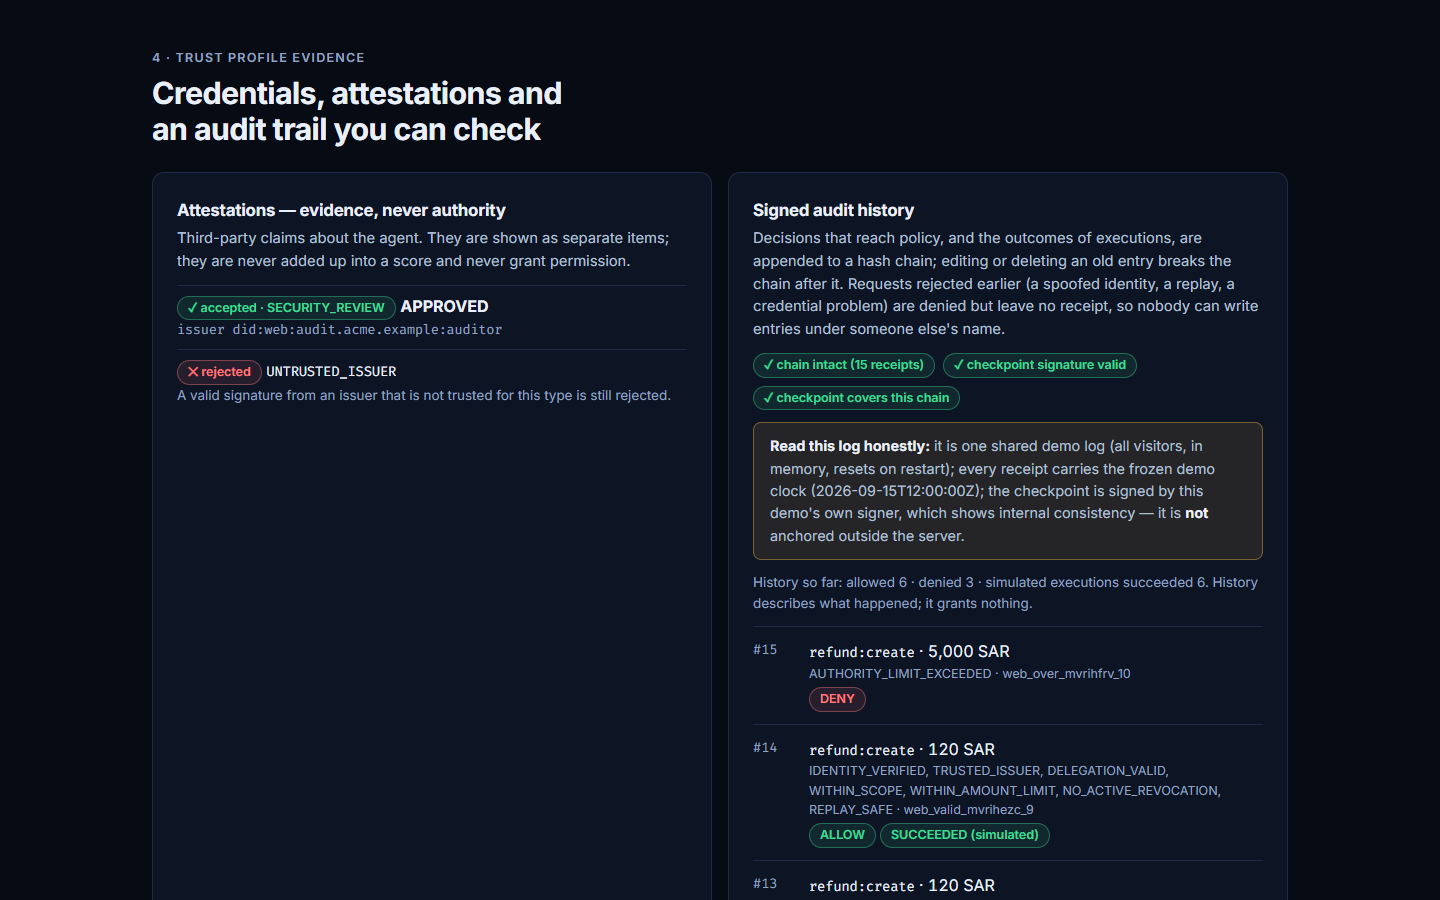
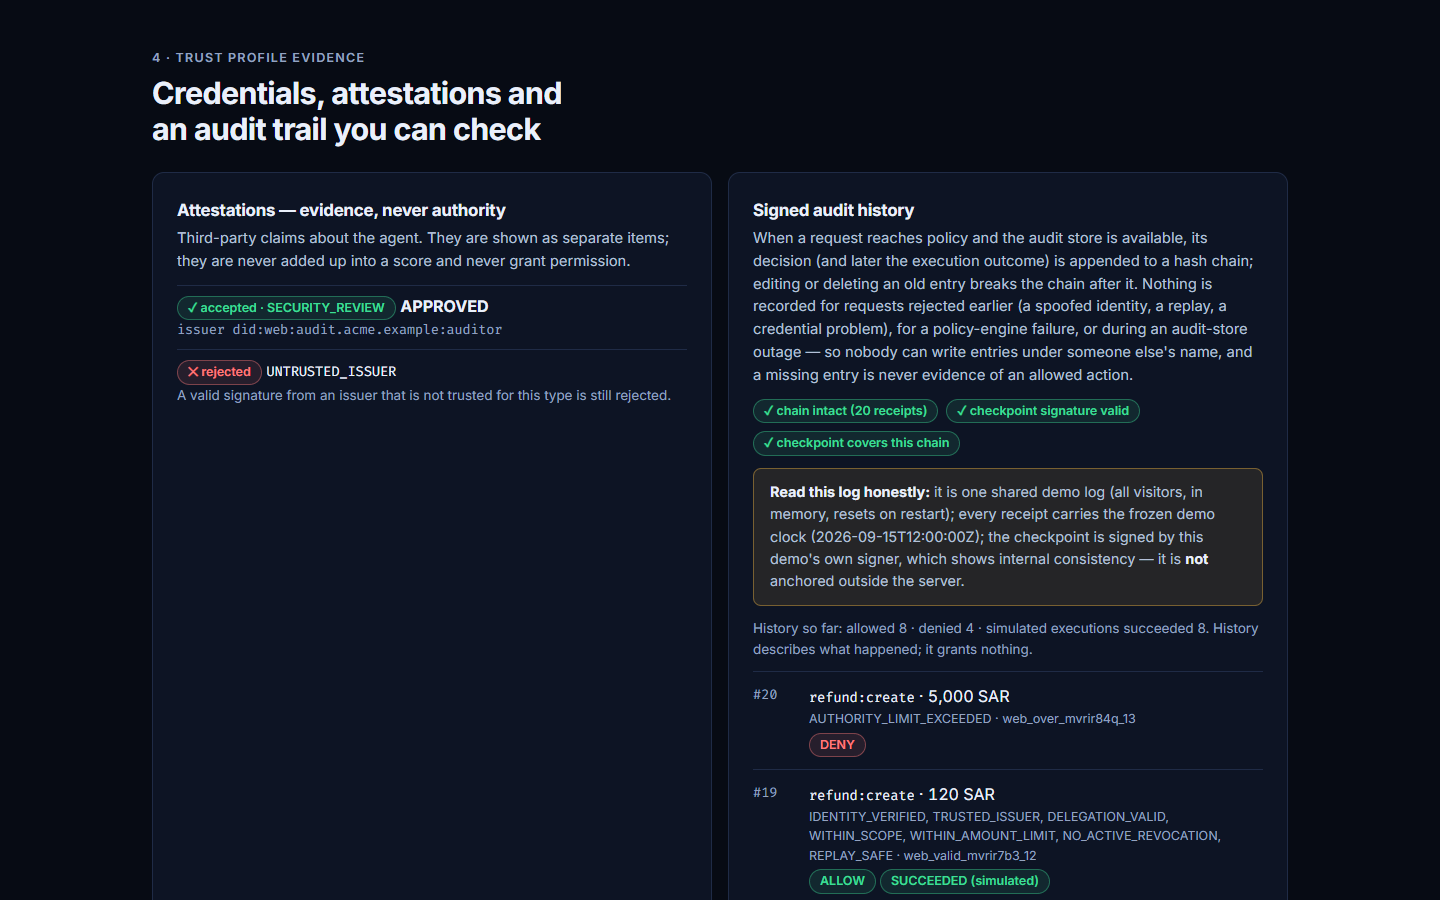
fix(web): partial-retry for "Run both", evidence generation guard, precise receipt copy
- "Run both" retries only the failed leg and refreshes evidence after partial
  success (the successful 120 SAR leg is never repeated).
- The bootstrap refresh obeys the same generation guard as post-run refreshes.
- Evidence disclosure: "none recorded" vs "nothing executed", and replay cards
  attribute their receipts to the first send.
- Audit-log copy names what is NOT recorded (early denials, policy-engine
  failure, audit outage).
- Docs separate the security release verification (92ff923 / e4ba7eb) from the
  UI branch verification (e45a7f9) and drop the video from the blockers.
- ui:check now 45 checks; screenshots regenerated.

Changed region(s): [[0.5312, 0.2489, 0.875, 0.9956]]

diff --git a/apps/web/src/app/page.tsx b/apps/web/src/app/page.tsx
@@ -51,6 +51,7 @@ export default function Page() {
   const [amount, setAmount] = useState('250');
   const [amountError, setAmountError] = useState<string | null>(null);
   const [bootError, setBootError] = useState<string | null>(null);
+  const evSeq = useRef(0);
   // One request at a time. Buttons use aria-disabled (not `disabled`) so keyboard focus is never lost.
   // Each run owns a token; only the owner can release the lock, so a late `finally`
   // from an earlier run can never free a newer run's lock.
@@ -68,11 +69,11 @@ export default function Page() {
     activeRef.current = null;
     setRunning(null);
   }, []);
-  const lastReq = useRef<{ id: string; amount?: number } | null>(null);
-  const evSeq = useRef(0);
+  const lastReq = useRef<{ id: string; amount?: number; step?: 1 | 2 } | null>(null);
   const [evidenceStale, setEvidenceStale] = useState(false);
 
   const refresh = useCallback(async (attempt = 0): Promise<void> => {
+    const generation = evSeq.current; // a newer evidence refresh (after a run) must never be overwritten by this one
     try {
       const [pr, ar, sr] = await Promise.all([
         fetch('/api/agents/support/profile'),
@@ -80,8 +81,11 @@ export default function Page() {
         fetch('/api/demo/status'),
       ]);
       if (!pr.ok || !ar.ok) throw new Error('backend initializing');
-      setProfile(await pr.json());
-      setAudit(await ar.json());
+      const [prJson, arJson] = await Promise.all([pr.json(), ar.json()]);
+      if (generation === evSeq.current) {
+        setProfile(prJson);
+        setAudit(arJson);
+      }
       if (sr.ok) {
         const s = (await sr.json()) as DemoStatus;
         if (s.dids !== undefined) setStatus(s);
@@ -166,24 +170,31 @@ export default function Page() {
     [begin, release, evaluate, reloadEvidence, scrollToVerdict],
   );
 
-  const runBoth = useCallback(async () => {
-    const token = begin('both');
-    if (token === null) return;
-    lastReq.current = { id: 'both' };
-    setErrorPrimary(null);
-    try {
-      await evaluate('valid-120');
-      const second = await evaluate('over-5000');
-      if (second !== undefined) setLast(second);
-      release(token);
-      scrollToVerdict();
-      await reloadEvidence();
-    } catch (e) {
-      setErrorPrimary(e instanceof Error ? e.message : String(e));
-    } finally {
-      release(token);
-    }
-  }, [begin, release, evaluate, reloadEvidence, scrollToVerdict]);
+  const runBoth = useCallback(
+    async (startAt: 1 | 2 = 1) => {
+      const token = begin('both');
+      if (token === null) return;
+      lastReq.current = { id: 'both', step: startAt };
+      setErrorPrimary(null);
+      try {
+        if (startAt === 1) {
+          await evaluate('valid-120');
+          lastReq.current = { id: 'both', step: 2 }; // the 120 SAR leg succeeded: a retry must not repeat it
+        }
+        const second = await evaluate('over-5000');
+        if (second !== undefined) setLast(second);
+        release(token);
+        scrollToVerdict();
+        await reloadEvidence();
+      } catch (e) {
+        setErrorPrimary(e instanceof Error ? e.message : String(e));
+        if (lastReq.current?.step === 2) void reloadEvidence(); // partial success: the first leg is already in the log
+      } finally {
+        release(token);
+      }
+    },
+    [begin, release, evaluate, reloadEvidence, scrollToVerdict],
+  );
 
   const runCustom = useCallback(() => {
     const parsed = parseAmount(amount);
@@ -219,7 +230,7 @@ export default function Page() {
     const req = lastReq.current;
     setErrorPrimary(null);
     if (req === null) return;
-    if (req.id === 'both') void runBoth();
+    if (req.id === 'both') void runBoth(req.step ?? 1);
     else void runPrimary(req.id, req.amount);
   }, [runBoth, runPrimary]);
 

diff --git a/apps/web/src/components/sections.tsx b/apps/web/src/components/sections.tsx
@@ -318,7 +318,10 @@ export function EvidenceDetails({ record }: { record: RunRecord }) {
             <tr><th scope="row">Outcome</th><td className="mono">{d.outcome}</td></tr>
             <tr><th scope="row">Reason codes</th><td className="mono wrap-any">{d.reasonCodes.join(', ') || '—'}</td></tr>
             <tr><th scope="row">Decision receipt</th><td className="mono wrap-any">{d.decisionReceiptId ?? 'none written'}</td></tr>
-            <tr><th scope="row">Outcome receipt</th><td className="mono wrap-any">{d.executionReceiptId ?? 'none (nothing executed)'}</td></tr>
+            <tr><th scope="row">Outcome receipt</th><td className="mono wrap-any">{d.executionReceiptId ?? (d.stages.execution === 'NOT_RUN' ? 'none (nothing executed)' : 'none recorded')}</td></tr>
+            {record.evaluation.firstResult !== undefined && (
+              <tr><th scope="row">Two sends</th><td>The receipts listed here belong to the first send ({record.evaluation.firstResult.outcome}). The identical re-send ({d.outcome}) was refused before any receipt was written.</td></tr>
+            )}
             {record.evaluation.runReceipts.map((r) => (
               <tr key={r.sequence}><th scope="row">Receipt #{r.sequence} hash</th><td className="mono wrap-any">sha256:{r.eventHash}</td></tr>
             ))}
@@ -585,7 +588,7 @@ export function EvidenceSection({ profile, audit, status }: { profile: ProfileDt
 
       <section className="card" aria-labelledby="audit-title">
         <h3 className="card-title" id="audit-title">Signed audit history</h3>
-        <p className="card-sub">Decisions that reach policy, and the outcomes of executions, are appended to a hash chain; editing or deleting an old entry breaks the chain after it. Requests rejected earlier (a spoofed identity, a replay, a credential problem) are denied but leave no receipt, so nobody can write entries under someone else&apos;s name.</p>
+        <p className="card-sub">When a request reaches policy and the audit store is available, its decision (and later the execution outcome) is appended to a hash chain; editing or deleting an old entry breaks the chain after it. Nothing is recorded for requests rejected earlier (a spoofed identity, a replay, a credential problem), for a policy-engine failure, or during an audit-store outage — so nobody can write entries under someone else&apos;s name, and a missing entry is never evidence of an allowed action.</p>
         {audit === null ? (
           <div className="skeleton" style={{ marginTop: 'var(--s4)' }} aria-busy="true" />
         ) : audit.error !== undefined ? (

diff --git a/docs/submission/judge-checklist.md b/docs/submission/judge-checklist.md
@@ -34,7 +34,7 @@ Nothing vague; every row is clickable or runnable.
 |---|---|
 | **Conceptual clarity (25)** | README first screen (120-vs-5000 table + the single sentence) · canonical demo run in the live UI · `docs/trust-model.md` |
 | **Technical depth (25)** | 504 tests in the default run (435 package + 69 apps/web; OPA on PATH needed for all 504) + 5 Redis integration tests · SSRF-pinned did:web transport · PoP→replay→VC→status→attenuation→Wasm→receipts pipeline · ADRs |
-| **Demo quality (20)** | Judge-first dashboard: hero, principals + signed grant, the 120-vs-5,000 SAR decision with a large verdict, a real-order pipeline, failure cards, lifecycle, evidence; 10 screenshots regenerated from the current UI (desktop + mobile); responsive at 1920/1440/768/390 px with 43 automated browser checks; optional video script (once recorded on the public URL) |
+| **Demo quality (20)** | Judge-first dashboard: hero, principals + signed grant, the 120-vs-5,000 SAR decision with a large verdict, a real-order pipeline, failure cards, lifecycle, evidence; 10 screenshots regenerated from the current UI (desktop + mobile); responsive at 1920/1440/768/390 px with 45 automated browser checks; optional video script (once recorded on the public URL) |
 | **Failure thinking (15)** | 60/60 attack suite with invariant checks · fail-closed at every enforcement boundary (incl. startup config: Redis/did:web misconfig refuses boot; a policy-engine crash denies without a receipt) · documented bugs-caught table |
 | **Future thesis (15)** | `two-year-thesis.md` (portable evidence, provenance-as-contract, agent refusal, standards over scores) + what-the-fabric-doesn't-do honesty |
 
@@ -42,10 +42,12 @@ Nothing vague; every row is clickable or runnable.
 
 | Item | Status |
 |---|---|
-| Typecheck, 504 tests (incl. the 69 apps/web tests), 5 Redis, 13 OPA, 60/60 attacks, build, 43/43 browser checks | PASS on the release branch (see `final-submission.md`) |
+| Security release (`92ff923` → `main` `e4ba7eb`): typecheck, 483 tests, 5 Redis, 13 OPA, 60/60 attacks, build, Docker build | PASS; CI green on the PR head and on the merge commit |
+| Judge-UI branch (code at `e45a7f9`): typecheck, 504 tests (435 package + 69 apps/web), 5 Redis, 13 OPA, 60/60 attacks, build, 45/45 browser checks | PASS locally; CI not yet run (branch not pushed, not merged) |
 | Original malformed-input exploit | Reproduced on the pre-fix code; fixed and covered by regression tests |
-| `smoke:live` 45/45 | PASS against the current public service (pre-audit build 4c25b4b); NOT RUN on a deployment of the release commit |
-| Public HTTPS URL on the release commit, 90-second walkthrough | BLOCKER — URL exists on the old build; walkthrough not recorded |
+| `smoke:live` 45/45 | PASS on 2026-10-28 against the OLD public build (4c25b4b); NOT RUN on a deployment of the merged code |
+| Public HTTPS URL (REQUIRED) | **BLOCKER** — the service is suspended; redeploy the merged code and re-verify |
+| 90-second walkthrough | OPTIONAL but recommended — not recorded; not a submission blocker |
 | Challenge requirements and judging weights | Provided by the project owner (verified by them on the challenge page); not independently re-fetched by the agents |
 | Video take/edit rules, exact form fields | UNVERIFIED |
 | Screenshots | Regenerated from the current UI with real clicks (`pnpm shots:live`); they must be regenerated again if the UI changes |

diff --git a/docs/submission/final-submission.md b/docs/submission/final-submission.md
@@ -103,31 +103,31 @@ https://abuzaro21.github.io/agents/refund/did.json
 Each identity has its own P-256 key; private keys live only as deployment
 secrets (never committed, never in the image, never in the browser).
 
-## Verified metrics (post-audit release branch)
+## Verified metrics (each line names the code it was run on)
 
-Executed on a clean worktree of the release branch (code baseline `043257b`),
-Windows 11, Node 24, pinned OPA 1.20.2, Redis 7 for integration. Counts below
-are from those runs; historical counts from the original freeze are not reused.
+Windows 11, Node 24, pinned OPA 1.20.2, Redis 7 for integration. Historical counts from the original freeze are not reused.
 
 ```text
-TypeScript typecheck       0 errors
-default `pnpm test`        504 passed (435 package + 69 apps/web; 494 pass + 10 skip without OPA)
-frontend/API subset        69 passed (`pnpm test:frontend`, already inside the 504)
-browser automation         43/43 checks (`pnpm ui:check`: layout at 4 widths, keyboard, states)
-redis integration          5/5 (Redis 7)
-OPA native tests           13/13
-adversarial suite          60/60 (52 attacks + 8 failure demos)
-production web build       passes
-CI                         green on the original freeze; re-run on the release branch is pending
-live-mode smoke            45/45 against the CURRENT public service, which runs the pre-audit build 4c25b4b;
-                           NOT yet run against a deployment of the release commit
-docker image / compose     see docs/deployment.md "Verification record"
+Security release (92ff923, merged to main as e4ba7eb — tree-identical):
+  typecheck 0 errors · 483 tests in the default run (435 package + 48 apps/web) · Redis integration 5/5
+  OPA native 13/13 · adversarial suite 60/60 (52 attacks + 8 failure demos) · production build · Docker build
+  CI: green on the PR head and on the merge commit e4ba7eb
+  (details: docs/deployment.md "Verification record")
+
+Judge-UI branch feat/agent-trust-judge-ui-20261028 (code verified at e45a7f9; later commits are documentation only):
+  typecheck 0 errors · 504 tests in the default run (435 package + 69 apps/web; 494 pass + 10 skip without OPA)
+  Redis integration 5/5 · OPA native 13/13 · adversarial suite 60/60 · production build
+  browser automation 45/45 checks (`pnpm ui:check` against a local instance: layout at 4 widths, keyboard, states)
+  CI: NOT YET RUN — the branch is not pushed
+
+Public service (https://agent-trust.onrender.com):
+  SUSPENDED for security containment on 2026-10-28 (it ran the pre-audit build 4c25b4b).
+  smoke:live was 45/45 against that old build on 2026-10-28; it has NOT been run against a deployment of the merged code.
 ```
 
-Independent review: a read-only audit by a second model family (Codex
-GPT-6.1 Sol) reviewed the implementation, an Opus 5.5 pass challenged its
-findings, and the same reviewer re-reviewed the five repair commits (no
-production defects found; one test weakness fixed).
+Independent review: a read-only audit by a second model family (Codex GPT-6.1 Sol) reviewed the implementation, an Opus 5.5 pass
+challenged its findings, and Codex re-reviewed the repair commits and, separately, the UI redesign (9 verified defects fixed, then a
+re-review whose remaining findings were also fixed).
 
 ## Files in this package
 

diff --git a/README.md b/README.md
@@ -209,7 +209,7 @@ in-process inside `apps/web` route handlers.
 
 ## Status & Roadmap
 
-**Architecture and features frozen for submission; post-audit repairs applied.** Release-verification results (counts are from runs on the release branch, see [docs/submission/final-submission.md](docs/submission/final-submission.md) for the exact record): 504 tests in the default `pnpm test` run (435 package tests + the 69 `apps/web` tests that `pnpm test:frontend` also runs alone; with OPA on PATH all pass, without it 494 pass and 10 native-parity cases skip), a 43-check browser-automation run (`pnpm ui:check`), 5 Redis integration tests, 13 native Rego tests, 60/60 adversarial scenarios. Outstanding for submission: redeploying the public Render service from the release commit and re-verifying it (see [docs/deployment.md](docs/deployment.md)), and the recorded walkthrough.
+**Architecture and features frozen for submission; post-audit repairs applied.** Release-verification results (counts are from runs on the release branch, see [docs/submission/final-submission.md](docs/submission/final-submission.md) for the exact record): 504 tests in the default `pnpm test` run (435 package tests + the 69 `apps/web` tests that `pnpm test:frontend` also runs alone; with OPA on PATH all pass, without it 494 pass and 10 native-parity cases skip), a 45-check browser-automation run (`pnpm ui:check`), 5 Redis integration tests, 13 native Rego tests, 60/60 adversarial scenarios. Outstanding for submission: redeploying the public Render service from the release commit and re-verifying it (see [docs/deployment.md](docs/deployment.md)), and the recorded walkthrough.
 
 | Phase | Scope |
 |---|---|

diff --git a/docs/deployment.md b/docs/deployment.md
@@ -180,7 +180,7 @@ Executed locally (Windows 11, Docker 29.9.2, Node 24, OPA 1.20.2). `PASS` = exec
 | TypeScript typecheck | PASS |
 | Default `pnpm test` (OPA on PATH) | PASS — 504/504 in 47 files (435 package tests + the 69 `apps/web` tests); without OPA: 494 pass + 10 skipped |
 | `pnpm test:frontend` (the `apps/web` subset alone) | PASS — 69/69 (6 files) |
-| `pnpm ui:check` (browser automation of the redesigned UI, local instance) | PASS — 43/43 (layout at 4 widths, keyboard, ALLOW/DENY, real step order, loading/error/validation, reduced motion) |
+| `pnpm ui:check` (browser automation of the redesigned UI, local instance) | PASS — 45/45 (layout at 4 widths, keyboard, ALLOW/DENY, real step order, loading/error/validation, reduced motion) |
 | Redis integration (disposable `redis:7-alpine`) | PASS — 5/5 |
 | OPA fmt / check / test | PASS — 13/13 |
 | Adversarial suite | PASS — 60/60 (52 attacks + 8 failure demos) |
